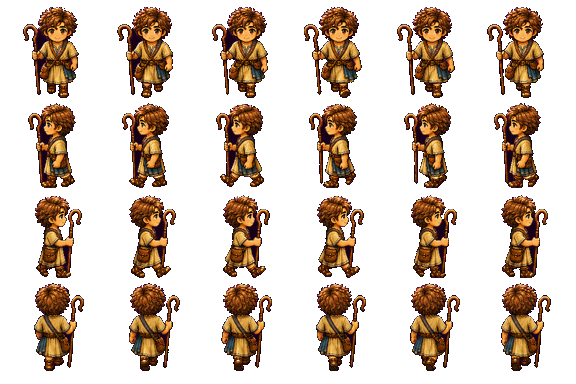
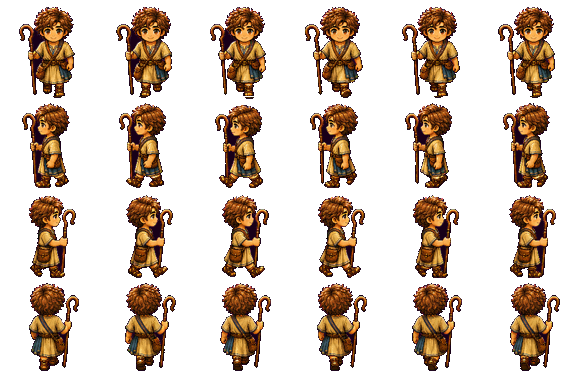
fix(david): 切片增加按脚底中位数对齐，消除逐帧漂移（角色飘逸）
AI 出图把角色在格子里逐帧平移（弹弓脚底漂移达 45px、行走 16px），
原地循环就像浮动。_build_david_v3.py 新增 align_feet：每行取脚底质心
中位数为锚点平移各帧，漂移降到 <1px；脚底站稳、循环不再飘。
中位数锚点最省位移，实测边缘不透明像素数不增反降，不裁切肢体。

diff --git a/assets/_build_david_v3.py b/assets/_build_david_v3.py
@@ -2,7 +2,11 @@
 """
 _build_david_v3.py — 把 assets/src/david_v3/ 下的「纯品红底 + 等格」大卫精灵表
 抠成真透明 PNG，保留原始 96px 等格网格（不做连通域重排，避免帧抖动），
-输出到 assets/ 供 assets.js 直接使用。
+再做「按脚底自动对齐」消除逐帧漂移（角色飘逸），输出到 assets/ 供 assets.js 直接使用。
+
+对齐说明：AI 出图时常把角色在格子里逐帧平移（像在走位），原地循环就会“飘”。
+这里对每一行（同朝向的若干帧）取脚底质心的中位数为锚点，把每帧整体平移到
+该锚点（中位数最省位移、几乎不会把肢体推出格子），脚底站稳、循环不再漂。
 
 源表规格（AI 按命令生成）：cell 96、4 行=下/左/右/上、纯品红 #FF00FF 实色底。
 列数：walk/run/sling/staff=6，idle/harp/pray/down=4，hurt=2。
@@ -70,6 +74,51 @@ def keyout_magenta(im):
     return Image.fromarray(out, "RGBA")
 
 
+def _shift(cell, dx, dy):
+    """把单帧整体平移 (dx,dy)，空出部分填透明（不环绕）。"""
+    out = np.zeros_like(cell)
+    h, w = cell.shape[:2]
+    xs0, xd0 = max(0, dx), max(0, -dx)
+    ys0, yd0 = max(0, dy), max(0, -dy)
+    ww, hh = w - abs(dx), h - abs(dy)
+    out[ys0:ys0 + hh, xs0:xs0 + ww] = cell[yd0:yd0 + hh, xd0:xd0 + ww]
+    return out
+
+
+def _foot_anchor(cell):
+    """返回该帧的脚底锚点 (cx, bottom_y)：底部 14px 带内不透明像素的横向质心 + 最低行。"""
+    a = cell[:, :, 3] > 16
+    ys, xs = np.where(a)
+    if len(ys) == 0:
+        return cell.shape[1] / 2, cell.shape[0] - 1
+    b = int(ys.max())
+    band = a[max(0, b - 13):b + 1, :]
+    by, bx = np.where(band)
+    cx = bx.mean() if len(bx) else (xs.min() + xs.max()) / 2
+    return cx, b
+
+
+def align_feet(keyed, cols, rows=4):
+    """逐行（同朝向）按脚底质心中位数对齐，消除原地循环时的漂移。"""
+    im = np.array(keyed)
+    H, W = im.shape[:2]
+    cw, ch = W // cols, H // rows
+    for r in range(rows):
+        anchors = []
+        for c in range(cols):
+            cell = im[r * ch:(r + 1) * ch, c * cw:(c + 1) * cw]
+            anchors.append(_foot_anchor(cell))
+        tx = float(np.median([a[0] for a in anchors]))
+        ty = float(np.median([a[1] for a in anchors]))
+        for c in range(cols):
+            y0, x0 = r * ch, c * cw
+            cell = im[y0:y0 + ch, x0:x0 + cw].copy()
+            dx = int(round(tx - anchors[c][0]))
+            dy = int(round(ty - anchors[c][1]))
+            im[y0:y0 + ch, x0:x0 + cw] = _shift(cell, dx, dy)
+    return Image.fromarray(im, "RGBA")
+
+
 def build(name, cols, rows=4):
     src = Image.open(os.path.join(SRC, name))
     keyed = keyout_magenta(src)
@@ -79,8 +128,9 @@ def build(name, cols, rows=4):
         print(f"  ! {name} {w}x{h} 非整除 {cols}x{rows}，按比例缩放对齐")
         cw, ch = w // cols, h // rows
         keyed = keyed.crop((0, 0, cw * cols, ch * rows))
+    keyed = align_feet(keyed, cols, rows)
     keyed.save(os.path.join(HERE, name))
-    print(f"{name:18s} {keyed.size} cols={cols} rows={rows}")
+    print(f"{name:18s} {keyed.size} cols={cols} rows={rows} (feet-aligned)")
 
 
 if __name__ == "__main__":
